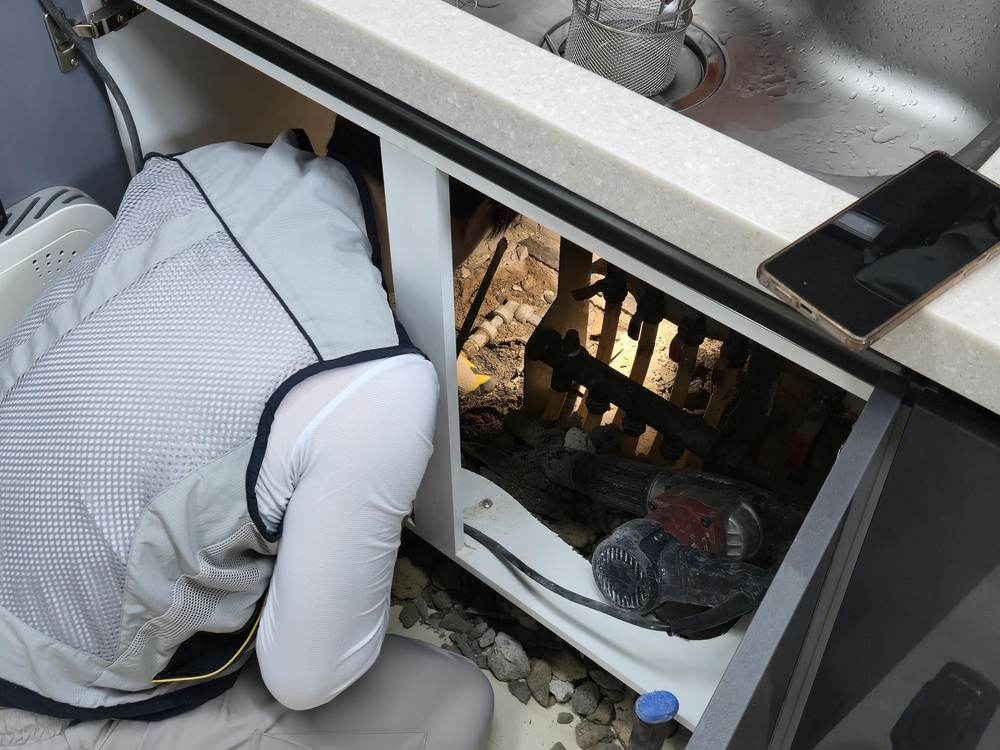
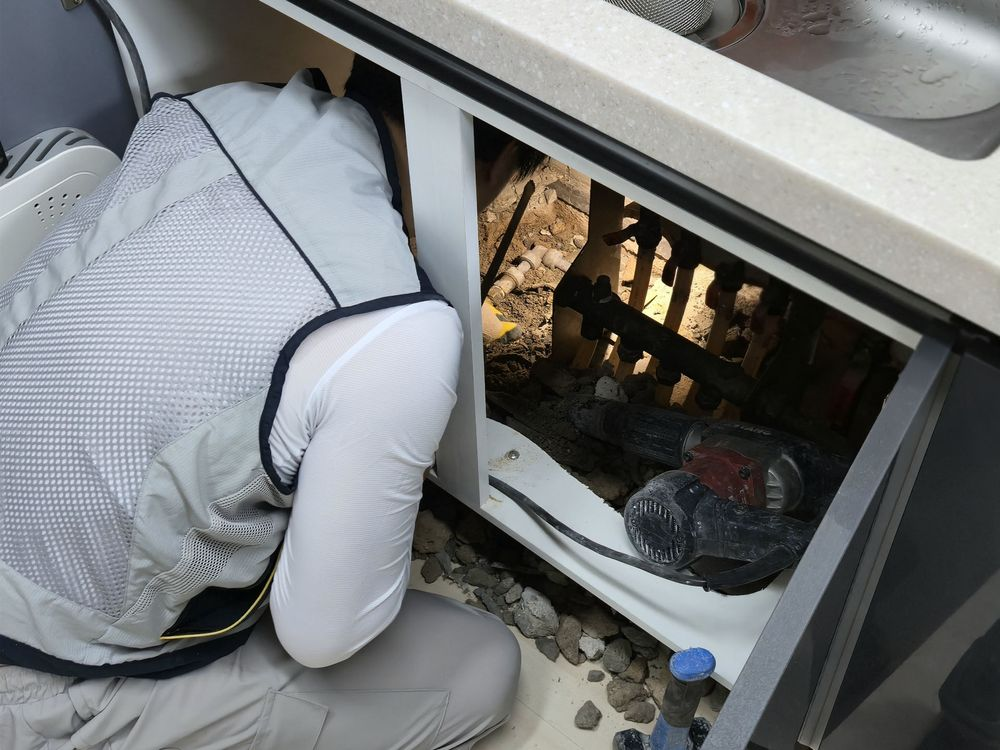
gallery renewal

diff --git a/index.html b/index.html
@@ -38,7 +38,7 @@
   <meta property="og:description" content="서울 전지역 1시간 이내 방문! 10년 이상 경력, 본사 직영, 24시간 연중무휴 누수·설비 전문업체">
   <meta property="og:type" content="website">
   <meta property="og:url" content="https://nusoo6422.co.kr/">
-  <meta property="og:image" content="https://nusoo6422.co.kr/images/og-image.jpg">
+  <meta property="og:image" content="https://nusoo6422.co.kr/images/og-image.jpg?v=2">
   <meta property="og:image:width" content="1200">
   <meta property="og:image:height" content="630">
   <meta property="og:image:alt" content="바른누수센터 누수탐지 작업 현장">
@@ -53,7 +53,7 @@
     "name": "바른누수센터",
     "description": "서울 전지역 누수탐지·배관수리·설비 전문업체. 24시간 연중무휴, 1시간 이내 방문.",
     "url": "https://nusoo6422.co.kr/",
-    "image": "https://nusoo6422.co.kr/images/og-image.jpg",
+    "image": "https://nusoo6422.co.kr/images/og-image.jpg?v=2",
     "logo": "https://nusoo6422.co.kr/images/icon-192.png",
     "telephone": "010-5864-6422",
     "openingHours": "Mo-Su 00:00-23:59",
@@ -304,32 +304,31 @@
   <div class="container">
     <div class="section-head">
       <h2>현장에서 직접 쓰는 장비</h2>
-      <p>열화상 카메라 · 청음 탐지기 · 관로 탐지기 · 내시경 카메라 · 가스 탐지기 · 공압 검사 · 고압세척 장비 보유</p>
     </div>
     <div class="gallery-grid">
       <figure class="gallery-item">
-        <img src="images/gallery/thermal-leak.jpg" alt="열화상 카메라로 누수를 확인하는 모습" loading="lazy">
+        <img src="images/gallery/thermal-camera.jpg" alt="열화상 카메라로 바닥 난방배관을 확인하는 모습" loading="lazy">
         <figcaption>열화상 카메라</figcaption>
       </figure>
       <figure class="gallery-item">
-        <img src="images/gallery/floor-thermal.jpg" alt="열화상 카메라로 난방배관을 검사하는 모습" loading="lazy">
-        <figcaption>난방배관 검사</figcaption>
+        <img src="images/gallery/acoustic-site.jpg" alt="청음 탐지기로 바닥 누수 소리를 확인하는 모습" loading="lazy">
+        <figcaption>청음 탐지기</figcaption>
       </figure>
       <figure class="gallery-item">
-        <img src="images/gallery/boiler-thermal.jpg" alt="보일러 배관 열화상 점검" loading="lazy">
-        <figcaption>보일러 점검</figcaption>
+        <img src="images/gallery/pipe-locator.jpg" alt="관로 탐지기로 매설 배관 위치를 찾는 모습" loading="lazy">
+        <figcaption>관로 탐지기</figcaption>
       </figure>
       <figure class="gallery-item">
-        <img src="images/gallery/gas-pressure.jpg" alt="가스 탐지 장비와 공압 검사 장비" loading="lazy">
-        <figcaption>가스 탐지 · 공압 검사</figcaption>
+        <img src="images/gallery/gas-pressure.jpg" alt="공압 검사 장비" loading="lazy">
+        <figcaption>공압 검사</figcaption>
       </figure>
       <figure class="gallery-item">
         <img src="images/gallery/endoscope.jpg" alt="배관 내시경 카메라" loading="lazy">
         <figcaption>내시경 카메라</figcaption>
       </figure>
       <figure class="gallery-item">
-        <img src="images/gallery/pipe-excavation.jpg" alt="배관 공사 현장" loading="lazy">
-        <figcaption>배관 공사 현장</figcaption>
+        <img src="images/gallery/high-pressure-wash.jpg" alt="고압세척 장비" loading="lazy">
+        <figcaption>고압세척 장비</figcaption>
       </figure>
     </div>
   </div>
